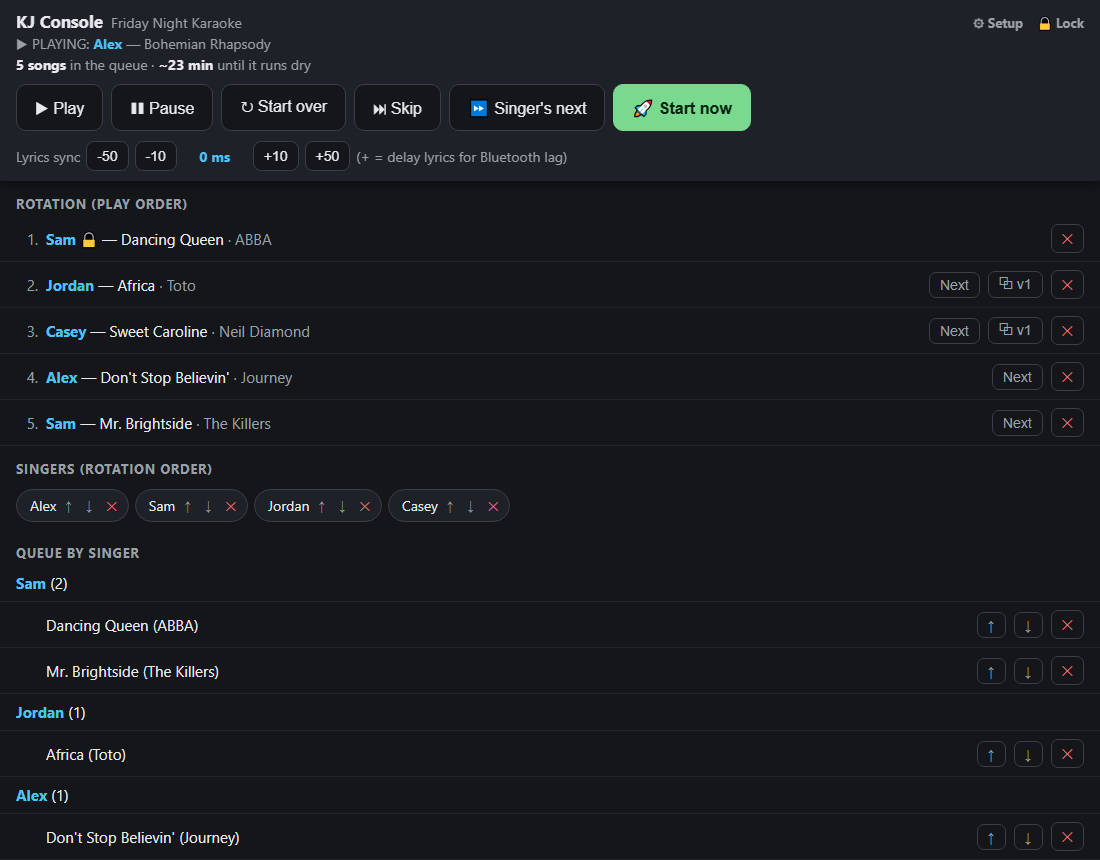
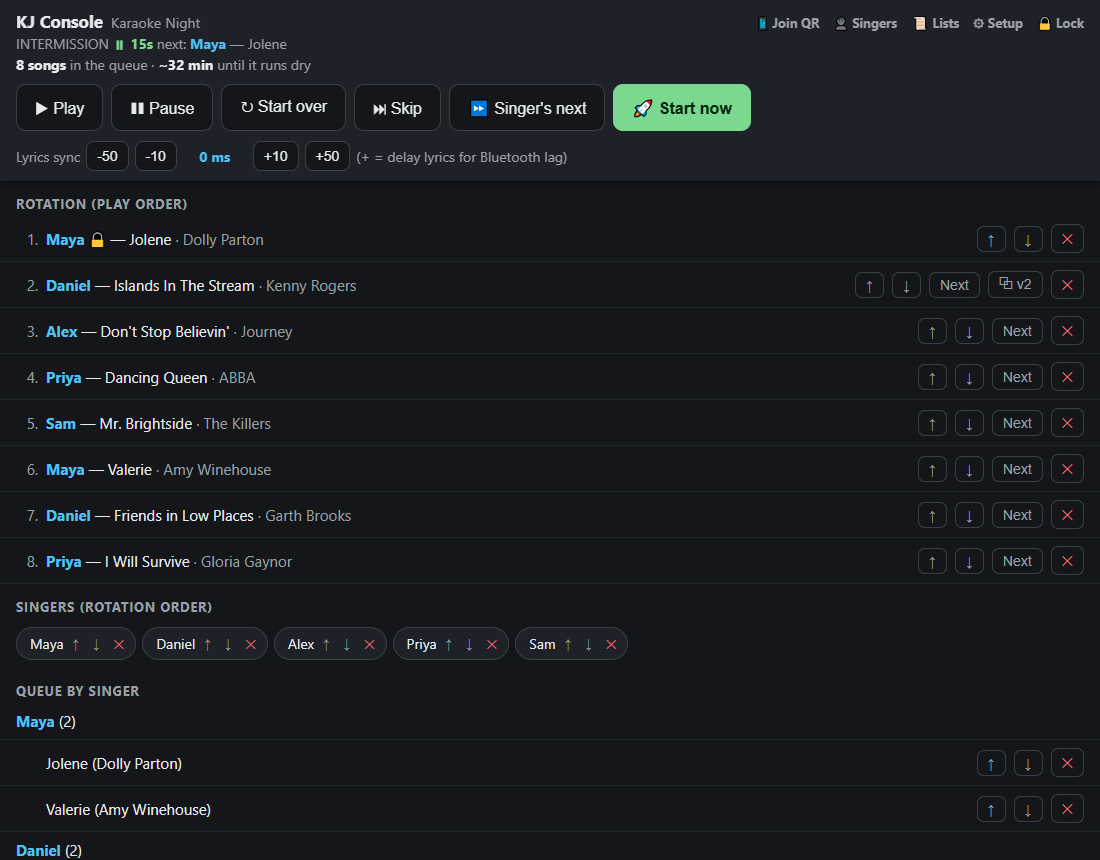
Refresh the screenshots and close out stale plan items
The screenshot half of the August docs pass never happened: the in-app browser
cannot capture frames. These were taken with headless Chrome through its
DevTools protocol, which sets exact viewports, against a throwaway copy of the
server seeded with a realistic party. Every operator page was captured from
that copy with the login gate disabled, never from this repo.

- Replaced: the TV board (now with the song's key), the KJ console, the lock
  page, the singer phone view, and setup. The old phone and lock shots were
  cut off on the right because Chrome will not size a window below 512 px;
  the protocol route avoids that. Setup is now the whole page, since the
  fair-queue and key-tone settings made it taller.
- Added: /kiosk, /kj/lists and /kj/singers, which had no screenshots.
- screen-play.png is left alone: it is a documented mockup, because real
  lyrics need real CDG files.

The lists page told the KJ about the songbook's "Random KJ Song" button, which
is labelled "KJ pick"; the text now uses the real label.

README: the new images, alt text that matches what the shots show, and Clear
PIN on the /kj/singers row. PLAN: Phase 5's open items point at #43 or are
marked done (GitHub upload, the config UI), Phase 7 and its C7 and C8 entries
are closed, and the v0.4.0 release and this closing pass are recorded,
including that both CI checks are now required on main.

64 core tests and 213 smoke checks pass.

diff --git a/static/kjlists.html b/static/kjlists.html
@@ -44,7 +44,7 @@ header a+a{margin-left:16px}
   <a href="#" onclick="logout();return false">&#128274; Lock</a>
 </header>
 <p class="intro">Singers' saved lists, registered singers first. Tag one as the <b>&#9733; random pool</b>
-that the songbook's &ldquo;Random KJ Song&rdquo; button draws from. Rename or delete any list.
+that the songbook's &ldquo;KJ pick&rdquo; button draws from. Rename or delete any list.
 <b>Orphaned</b> lists belong to a walk-up guest who is not in the room, so nobody is coming back for them.</p>
 <div id="msg"></div>
 <div id="lists"></div>

diff --git a/PLAN.md b/PLAN.md
@@ -154,17 +154,18 @@ folder scan otherwise. Small task on each side (song-sorter: extend
       queued songs), per-singer queue FIFO reorder, two-step session reset,
       library rescan. *All endpoints smoke-tested end-to-end; browser pass
       pending user.* MVP COMPLETE: phases 1-4 all code-complete.
-- [~] **Phase 5: polish** (OPEN, user review findings land here):
+- [~] **Phase 5: polish** (only the on-hardware pass remains, tracked in #43):
       - [x] singer UI songbook-parity search: All/Artist/Song-title filter
             pills + A–Z artist browse (server: `field`/`letter` params on
             /api/songs with precomputed per-field search text).
       - [x] deployment docs: DEPLOY.md (Pi install, systemd service in
             deploy/kriticaldj.service, dual-screen Chromium kiosk lines,
             Bluetooth pairing + sync calibration, fstab nofail note).
-      - [ ] user's browser/hardware test-pass findings (TBD).
-      - [ ] GitHub upload (user does this after review).
-      - [ ] optional niceties only if wanted: volume duck on pause,
-            next-singer chime, config UI.
+      - [ ] user's browser/hardware test-pass findings: now issue #43, which
+            collects every on-hardware check still outstanding.
+      - [x] GitHub upload: on GitHub, released as v0.1.0 through v0.4.0.
+      - [x] optional niceties: the config UI became /setup. A volume duck on
+            pause and a next-singer chime were never asked for, so not built.
 - [x] **Phase 6: statistics system** (DONE 2026-07-03): records
       what gets picked and what actually gets played, tied to singer identity.
       - **Event log**: append-only `stats.jsonl`, one JSON line per event
@@ -190,7 +191,7 @@ folder scan otherwise. Small task on each side (song-sorter: extend
         registry everywhere; GET /api/stats/summary aggregates (events,
         sessions, top played/queued/singers) and /setup displays it.
 
-- [~] **Phase 7: UAT-feedback pass** (started 2026-07-04, chunked for the
+- [x] **Phase 7: UAT-feedback pass** (started 2026-07-04, chunked for the
       token budget; each chunk ends compilable + tested):
       - [x] **C1 singer UI**: name picker is a dropdown (placeholder default so
             nobody queues as someone else, remembered in localStorage, inline
@@ -235,7 +236,7 @@ folder scan otherwise. Small task on each side (song-sorter: extend
             power check, Class 1 dongle escalation, and the wired-aux
             endgame (USB DAC -> mixer aux, lyrics offset back to ~0).
             Doc-only chunk; no app code.
-      - [~] **C7 library data cleanup** (lives in song-sorter, not KDJ;
+      - [x] **C7 library data cleanup** (lives in song-sorter, not KDJ;
             KDJ reads index.json verbatim). Scanned the synced 164k-track
             cache. Verdicts: (a) **Coulton album**: 32 tracks mislabeled
             `Bz's Homemade`, songs already correct → alias added; (b) **Rocky
@@ -255,7 +256,9 @@ folder scan otherwise. Small task on each side (song-sorter: extend
             repeat *Refresh* fixes the 107/113 already cached (6 malformed
             stragglers left: MW-808/THK/LEG w/ catalog-internal dashes or no
             song). Verified against all 113 real stems + regressions.
-      - [~] **C8 multi-version songs (big)**: KriticalDJ consumer side DONE
+            Nothing is left on the KDJ side; the re-export steps above are
+            song-sorter's.
+      - [x] **C8 multi-version songs (big)**: KriticalDJ consumer side DONE
             + tested + browser-verified: index.json entries may carry an
             optional `versions: [{path,label,duration}]` alongside the best
             copy; scan builds a per-song `versions` list (v0 = best, mirrors
@@ -532,13 +535,31 @@ folder scan otherwise. Small task on each side (song-sorter: extend
             changed. The console shows "Start over to hear vN" until then. It
             can only know that from what it has seen, so a console opened
             after a pick shows no hint.
+- [x] **Released v0.4.0** (2026-10-11 PT), covering Phases 8 to 12. The
+      upgrade from v0.3.0 was tested for real first: a v0.3.0 party had its
+      power cut mid-song and v0.4.0 started on the same files with everyone
+      still in line.
+- [x] **Phase 13: closing out open work** (2026-10-20 PT).
+      - [x] **CI is now a required check** on `main` (`python 3.9` and
+            `python 3.13`, pinned to GitHub Actions). Phase 10 added CI but
+            left it advisory, so a red pull request could still merge.
+      - [x] **Folder-scanned titles** (#44): the July "Artist-Song-Artist"
+            report was this app's own `parse_title`; see C7 above.
+      - [x] **Screenshots** refreshed, and added for `/kiosk`, `/kj/lists` and
+            `/kj/singers`. Taken with headless Chrome against a throwaway copy
+            of the server, since the in-app browser cannot capture frames.
+      - [ ] **On-hardware pass** (#43): everything that needs the Pi, the TV,
+            Bluetooth or guests' phones, collected as one checklist.
+      - [ ] **Audio normalization** (#20): parked by Spike, its four open
+            decisions intact.
 
 ## Notes for future sessions
 
 - Tests: `python test_core.py` (stdlib, no pytest needed). Filters:
   `python test_core.py hold rotation` runs those areas, `=rotation_empty` runs
   exactly that test. CI runs it and `smoke.py` on 3.9 and 3.13 for every pull
-  request.
+  request, and both checks are REQUIRED: a pull request cannot merge until
+  they pass.
 - Smoke test: `python smoke.py`. It stands a real server up on a free port
   against its own throwaway libraries and drives every API route over HTTP;
   read the two traps at the top of that file before hand-rolling a live test

diff --git a/README.md b/README.md
@@ -25,7 +25,7 @@ Then open, in a browser:
 | `/kiosk` | A shared walk-up device | The same songbook without a personal identity: pick a singer, pick a song, and the picker resets for the next person |
 | `/kj` | The KJ (host machine) | Play / Pause / Skip, Start-now, lyrics-sync nudge, queue and rotation management, join QR |
 | `/kj/lists` | The KJ | Moderate singers' saved lists and pick the pool the "KJ pick" button draws from |
-| `/kj/singers` | The KJ | Manage registered regulars: register, rename, remove |
+| `/kj/singers` | The KJ | Manage registered regulars: register, rename, remove, clear a forgotten PIN |
 | `/screen` | The TV/projector (fullscreen browser) | Lyrics during songs; NOW / NEXT / rotation + QR between songs |
 | `/setup` | The KJ, before/after the party | Rescan library, reset session, statistics, live config editing |
 
@@ -46,7 +46,7 @@ up-next call-out over the last 15 seconds, and a corner track timer.
 *(Playback shot below is a mockup. Lyric graphics come from your CDG files.)*
 
 <p>
-  <img src="docs/screen-board.png" width="49%" alt="TV intermission board: grab the mic, rotation, QR code">
+  <img src="docs/screen-board.png" width="49%" alt="TV intermission board: grab the mic, the song's key, rotation, QR code">
   <img src="docs/screen-play.png" width="49%" alt="TV playback view: CDG lyrics, singer header, up-next banner, track timer">
 </p>
 
@@ -62,13 +62,32 @@ from here reach the registered-singer and saved-list pages.
   <img src="docs/kj-lock.png" width="24%" alt="KJ PIN lock screen">
 </p>
 
-**Singers' phones and setup.** Guests search, browse, and queue from their own
-devices, and the name dropdown stops anyone queueing as someone else by
-accident. Setup handles the library, sessions, stats, and all config, live.
+**Saved lists and regulars.** At `/kj/lists` the KJ moderates singers' saved
+lists and stars the one the songbook's KJ pick button draws from. At
+`/kj/singers` they manage registered regulars, see who is here tonight, and
+clear a forgotten PIN.
 
 <p>
-  <img src="docs/singer.png" width="38%" alt="Singer UI on a phone: name dropdown, search, browse list">
+  <img src="docs/kj-lists.png" width="49%" alt="Saved lists page: lists grouped by singer, one starred as the KJ pick pool, a duet version pinned on a track">
+  <img src="docs/kj-singers.png" width="49%" alt="Registered singers page: regulars with here-tonight and PIN status, walk-up guests with register buttons">
+</p>
+
+**Singers' phones and setup.** Guests search, browse, and queue from their own
+devices, and the name dropdown stops anyone queueing as someone else by
+accident. Each singer sees their own songs and saved lists, and anyone can load
+another singer's list. Setup handles the library, sessions, stats, and all
+config, live.
+
+<p>
+  <img src="docs/singer.png" width="38%" alt="Singer UI on a phone: name dropdown, search, Random song and KJ pick, my songs, my lists, lists from other singers">
   <img src="docs/setup.png" width="55%" alt="Setup page: library rescan, session reset, statistics, editable configuration">
+</p>
+
+**The kiosk.** `/kiosk` turns a shared tablet into a walk-up songbook: pick a
+singer, pick a song, and it resets for the next person.
+
+<p>
+  <img src="docs/kiosk.png" width="80%" alt="Kiosk songbook on a tablet: singer picker, search, now and next, browse list">
 </p>
 
 ## Guests and regulars
